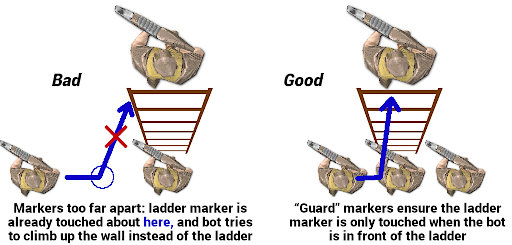
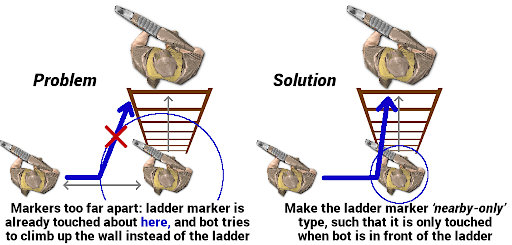
Nearby-only marker type.
A more practical solution to avoid premature marker touches

diff --git a/waypoint/README.md b/waypoint/README.md
@@ -380,13 +380,17 @@ Look at `efdm13` for an example.
 Never make any paths going into _lava,_ even though theoretically they could be traversed with invulnerability. The extra complexity required to also implement this, was not deemed worth it. Maps where it would be useful are scarce, and the consequences of the power-up expiring while still in lava are usually _lethal._ Be aware that some maps have lava that looks like slime—if it kills you within seconds, it is lava.
 
 
-### Ladders
+### Ladders, nearby-only markers
 
 Some maps simulate _ladders_ by means of what is basically the steepest possible staircase in a Quake map, with extremely thin steps, typically only 1 unit deep. The old Frogbot was unable to ascend these, but this has been fixed in v2. It should suffice to place one marker at the bottom of the ‘ladder’, one at the top, connect them, and the bot will climb up the ladder like a human player. (This may still fail if the map does not adhere to the best practice of using integer coordinates for all vertices.)
 
-If the bot can approach the ladder from its sides, you may need to place extra ‘guard’ markers to the left and right, to ensure that the marker whose path goes up the ladder is only touched when the bot is truly in front of the ladder, and will not already try to aim for the top of the ladder while it is not yet in the right spot.
+If the bot can approach the ladder from its sides, placing a single normal marker in front of it will be problematic. Due to the coarseness of the touch mechanism, the marker may already be touched long before the bot is in front of the ladder. The bot will then already try to aim for the top of the ladder, fruitlessly attempting to climb up the wall.
+
+The most practical solution in cases like these where markers must only be touched when the bot is almost on top of them, is to assign `nearby-only` marker mode. This mode causes the marker to only be touched when the bot is within 24 units distance. As usual, set display mode to `type` with the `Z` key, then select this mode with the `V` key, and right-click the marker.
 
 ![Ladder markers](images/ladder.jpg)
+
+If even this would not suffice, you could place extra markers to ‘shield’ the marker from being prematurely touched.
 
 
 ### Dealing with overlapping markers
